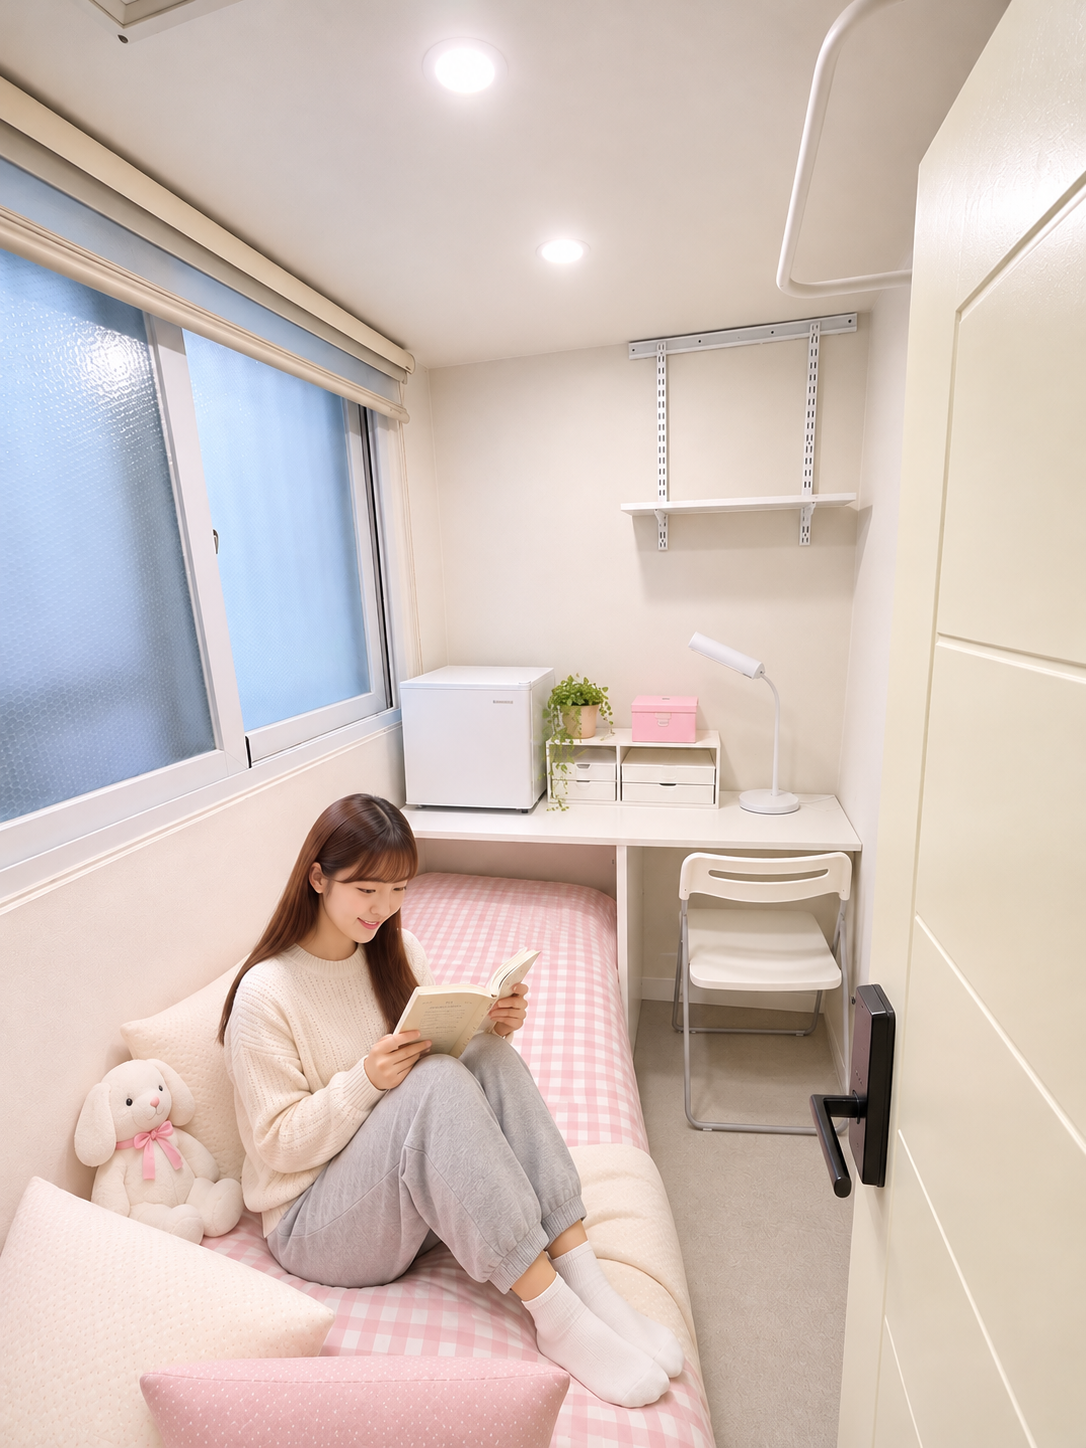
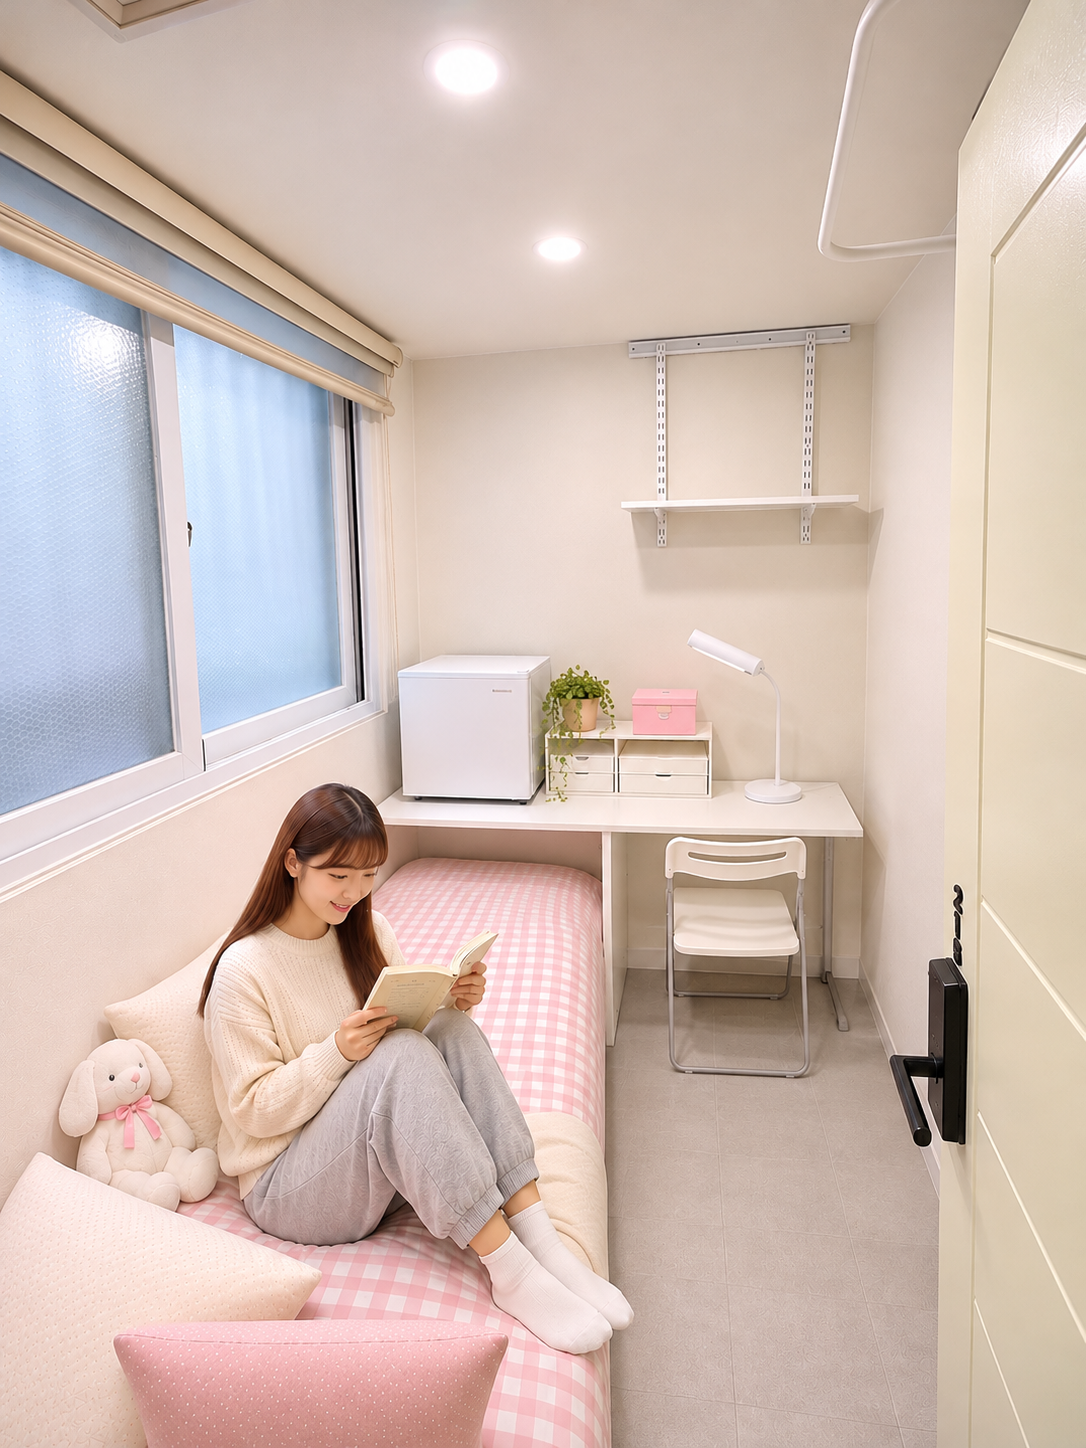
Add files via upload

diff --git a/rooms.html b/rooms.html
@@ -156,7 +156,7 @@
 <div class="room-tags"><span class="room-tag">외창방</span><span class="room-tag">암막블라인드</span><span class="room-tag">낮 휴식에 유리</span></div>
 
 <p class="room-detail-text">디럭스룸은 외창이 있는 타입으로, 암막블라인드가 설치되어 있어 낮에도 햇빛의 방해를 줄이고 편하게 쉴 수 있다는 점이 장점입니다. 밝은 빛에 민감하거나 낮 시간 휴식이 필요한 분께 특히 도움이 됩니다.</p>
-<p class="room-detail-text" style="font-size:12px;color:#777;margin:5px 0 12px;line-height:1.6;">※ 사진 속 이동식 수납장·스탠드 행거는 요청 시 빼드릴 수 있습니다.</p>
+<p class="room-detail-text" style="font-size:12px;color:#777;margin:5px 0 12px;line-height:1.6;">※ 이동식 스탠드 행거는 요청에 따라 설치하거나 빼드릴 수 있습니다.</p>
 <div class="room-points"><div class="room-point"><strong>암막블라인드</strong>낮 시간에도 빛을 조절해 보다 편안한 휴식 환경을 만들 수 있습니다.</div><div class="room-point"><strong>외창 구조</strong>창이 있는 방을 선호하는 분께 적합합니다. 창문 크기는 객실마다 다를 수 있습니다.</div><div class="room-point"><strong>추천 대상</strong>외창방을 원하고 밤샘 공부 후 주간 휴식이 필요한 분께 좋습니다.</div></div>
 </div>
 </article>
@@ -171,7 +171,7 @@
 <div class="room-tags"><span class="room-tag">실속형</span><span class="room-tag">공기청정기</span><span class="room-tag">합리적인 비용</span></div>
 
 <p class="room-detail-text">스탠다드룸은 합리적인 비용으로 조용하게 생활할 수 있는 실속형 타입입니다. 공기청정기가 들어가 있어 보다 쾌적한 실내 환경을 유지하는 데 도움이 되며, 기본적인 생활과 공부에 집중하고 싶은 분께 적합합니다.</p>
-<p class="room-detail-text" style="font-size:12px;color:#777;margin:5px 0 12px;line-height:1.6;">※ 사진 속 이동식 수납장·스탠드 행거는 요청 시 빼드릴 수 있습니다.</p>
+<p class="room-detail-text" style="font-size:12px;color:#777;margin:5px 0 12px;line-height:1.6;">※ 이동식 스탠드 행거는 요청에 따라 설치하거나 빼드릴 수 있습니다.</p>
 <div class="room-points"><div class="room-point"><strong>공기청정기</strong>실내 공기 관리에 도움이 되는 공기청정기가 비치되어 있습니다.</div><div class="room-point"><strong>실속</strong>필요한 구성을 갖추고 월 비용 부담을 줄인 타입입니다.</div><div class="room-point"><strong>가격 안내</strong>일반 스탠다드룸은 월 35만원이며, 스탠다드 컴팩트룸도 일부 운영하며 월 33만원입니다.</div></div>
 </div>
 </article>
